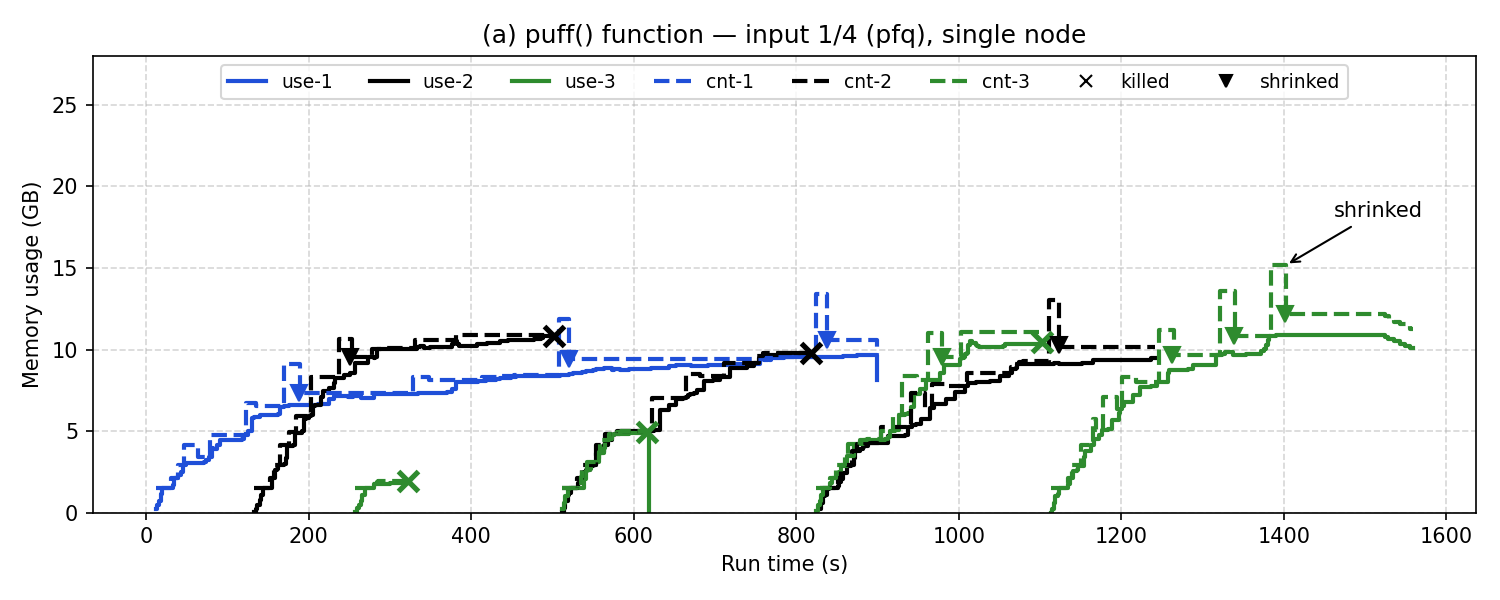
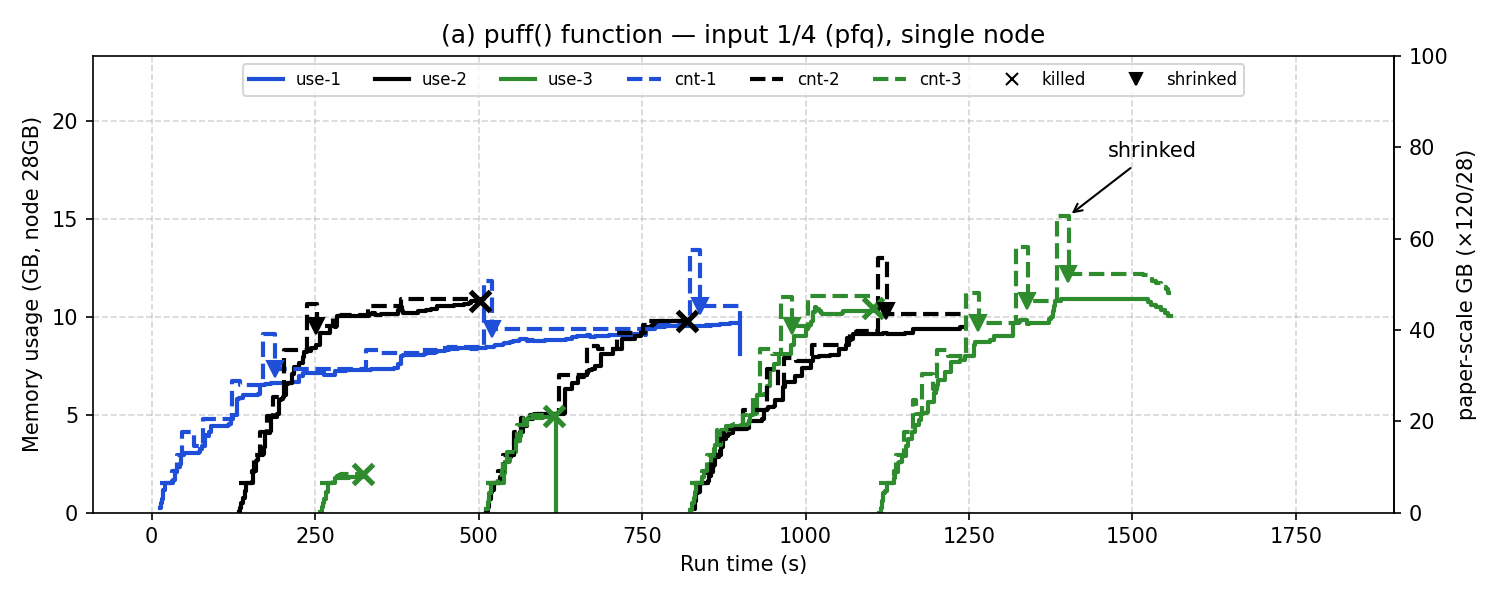
feat: Fig 6(a) 그래프 축을 논문과 같은 기준으로 + 제출 간격 문제 기록
- 가로 0~1750초 250초 눈금, 오른쪽 축 = 논문 노드 환산 GB(×120/28, 0~100GB)
- 환산 기준 PR 최대 약 63GB(크기 74GB) ↔ 논문 약 66GB(79GB)
- 논문 그래프는 세 컨테이너가 모두 0초 근처 시작 → 우리 120초 간격 가정이 맞지 않음 (steps/10 §6)

diff --git a/original-hadoop2.7/setup/plot-fig6a.py b/original-hadoop2.7/setup/plot-fig6a.py
@@ -97,11 +97,20 @@ if big:
     ax.annotate("shrinked", xy=(t, old / 1024), xytext=(t + 60, old / 1024 + 3),
                 arrowprops=dict(arrowstyle="->", color="#000000"), fontsize=10)
 ax.plot([], [], marker="v", ls="", color="#000000", label="shrinked")
+# 축을 논문 Fig 6(a)와 같은 기준으로: 가로 0~1750초 눈금 250초, 세로는 논문 0~100GB(노드 120GB)와 같은 높이
+#   왼쪽 = 우리 GB (노드 28GB), 오른쪽 = 논문 노드로 환산한 GB (× 120/28)
+SCALE = 120 / 28
 ax.set_xlabel("Run time (s)")
-ax.set_ylabel("Memory usage (GB)")
-ax.set_ylim(0, 28)  # 노드 YARN 메모리 28GB
+ax.set_ylabel("Memory usage (GB, node 28GB)")
+ax.set_ylim(0, 100 / SCALE)
+xmax = max(max(s["t"]) for s in series.values())
+ax.set_xlim(-90, max(1900, xmax + 60))
+ax.set_xticks(range(0, int(max(1900, xmax + 60)), 250))
+ax2 = ax.secondary_yaxis("right", functions=(lambda y: y * SCALE, lambda y: y / SCALE))
+ax2.set_ylabel("paper-scale GB (×120/28)")
+ax2.set_yticks(range(0, 101, 20))
 ax.grid(True, ls="--", alpha=0.5)
-ax.legend(ncol=8, loc="upper center", fontsize=9)
+ax.legend(ncol=8, loc="upper center", fontsize=8)
 ax.set_title(f"(a) puff() function — {note}")
 fig.tight_layout()
 fig.savefig(out, dpi=150)

diff --git a/original-hadoop2.7/x86-server/steps/10-fig6a-ratio.md b/original-hadoop2.7/x86-server/steps/10-fig6a-ratio.md
@@ -101,7 +101,7 @@ bash ~/legacy/setup/fig6a.sh 120          # KM 입력은 pfq 그대로
 | job별 실행 시간 비율 | [논문 없음] | PR이 가장 오래 (약 1790초) | 09: PR 753초 → 10: 1726초 (KM 476초) | 선 길이, 누가 먼저 끝나나, kill 대상 | **실측**: 09는 PR이 먼저 끝남 → 10은 PR이 가장 오래 |
 | 메모리가 늘어나는 **속도** | [논문 없음] (코어 수 등) | PR이 약 450초에 노드의 42% | PR 단독 400초 7.8GB(28%), 최대는 1400초 | 초반 누가 위에 있나 (10에서 KM1이 PR보다 위) | 실측(곡선) + 원인 **추측**: 1코어 |
 | executor 코어 수 | [논문 없음] | — | 1 ("Spark 기본 설정" 문장 해석, 08) | 메모리 증가 속도, 실행 시간 | **추측** (미실험) |
-| 제출 간격 | [논문 없음] ("one by one") | — | 120초 (Fig 7 값) | job이 겹치는 시점 | 미실험 |
+| **제출 간격** | [논문 없음] ("one by one") | **그래프상 세 컨테이너 모두 0초 근처에서 약 5GB로 시작** (그래프 판독) | 120초 (Fig 7 값) → KM1 131초, KM2 595초에 시작 | job이 겹치는 시점, **초반 경쟁** — 논문은 처음부터 셋이 경쟁해서 KM이 억눌림 | 그래프 판독 — **120초 가정이 논문 그래프와 맞지 않음** (2026-11-02) |
 | puff 비율 ×1.4 | [논문 명시] = 원 코드 | 40% (p.263) | 같음 | 점선 계단 한 칸 높이, 뾰족한 점선 | 같음 |
 | **OCM 집합 제외 기준 → shrink 시점** | [원 코드 ≠ 논문] | **예: 2분** (p.264, "e.g.") | 5라운드 → puff 뒤 약 14~18초 shrink (06b 14초, PR 단독 18초) | **shrink 빈도** — 톱니 모양·뾰족한 점선 | 실측(시간) + 영향 정도 **추측** |
 | shrink 여유분 | [원 코드 ≠ 논문] | 2GB (p.264) | (사용량+swap)×1.1 | shrink 뒤 높이, 다시 OCM 날 가능성 | 실측 (식 일치) |
@@ -111,6 +111,8 @@ bash ~/legacy/setup/fig6a.sh 120          # KM 입력은 pfq 그대로
 | 안쪽 Hadoop | [우리 실수] | 2.4.0 (추측) | 2.7.3 → 되돌릴 예정 (03 §7) | 작을 것 (**추측**) | 미실험 |
 | HiBench 버전·파라미터 | [논문 없음] | — | 6.0, 기본값 (07·08) | 워크로드 동작 | 미실험 |
 
+- 그래프 축: 논문과 같은 기준으로 그림 (가로 0~1750초 250초 눈금, 오른쪽 축 = 논문 노드 환산 GB ×120/28 → 논문 0~100GB와 같은 높이)
+  - 환산 기준 PR 사용량 최대 약 63GB·크기 약 74GB ↔ 논문 약 66GB·79GB (비슷), KM1 약 46GB ↔ 논문 container-2 약 27GB (논문은 처음부터 PR과 경쟁해 억눌림)
 - 정리: 논문에 없는 값(job 특성, 코어 수, 간격)과 원 코드-논문 차이(shrink 시점·여유, 재배정 조건)가 **각각 그래프의 다른 부분**에 영향을 줌
 - 지금까지 실측으로 확인한 건 메모리·실행 시간 비율(09 → 10)뿐. 나머지 영향 정도는 추측
 
